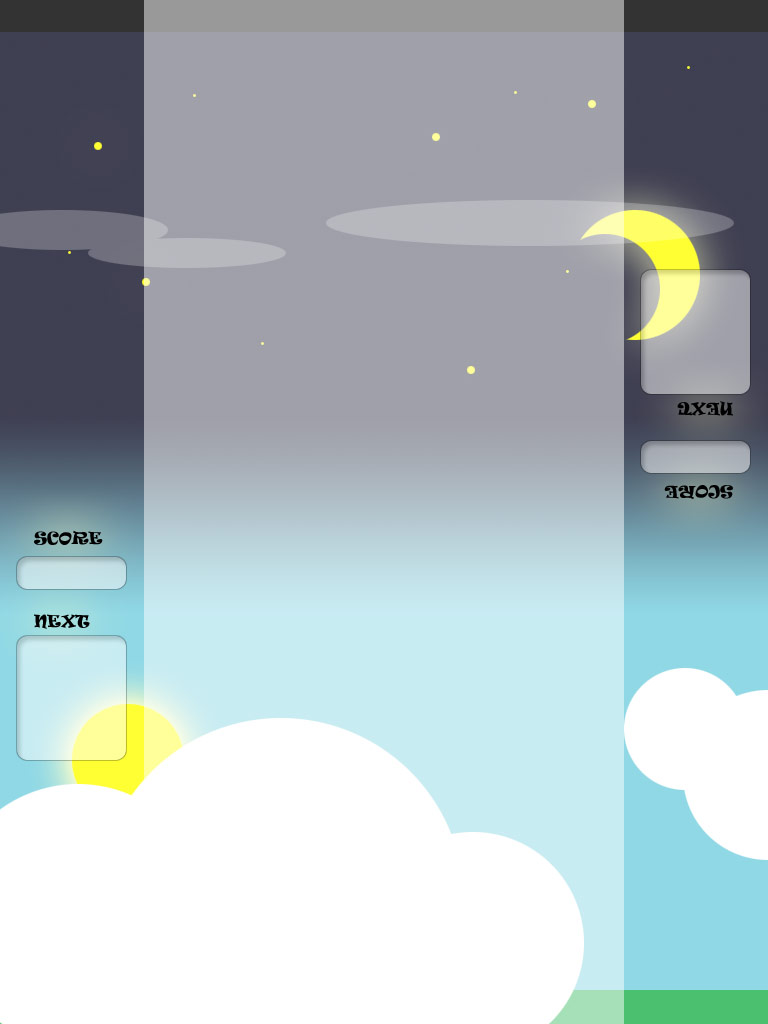
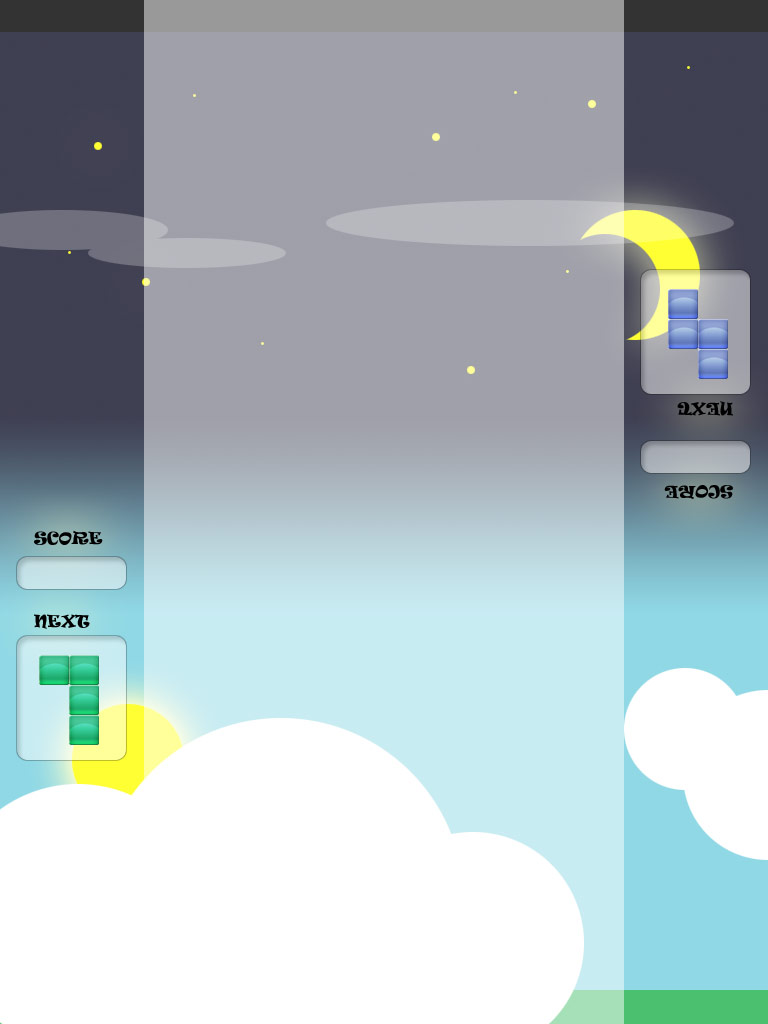
final tweaks in layout and powerups

Changed region(s): [[0.0312, 0.625, 0.1562, 0.75], [0.8438, 0.2812, 0.9688, 0.375]]

diff --git a/js/touchtris.js b/js/touchtris.js
@@ -26,6 +26,9 @@ TouchTris = new Class({
 		this.addGame(player1);
 		this.addGame(player2);
 
+		player1.addEvent('powerup', this.doPowerup.bind(this));
+		player2.addEvent('powerup', this.doPowerup.bind(this));
+
 		var canvas = document.getElementById("game");
 
 		var renderer = this.renderer = new Renderer({
@@ -90,13 +93,35 @@ TouchTris = new Class({
 		this.renderer.render(game);
 	},
 
+	doPowerup: function(event) {
+		var origin = event.game;
+		var total = 34;
+		var data1 = this.player1.getData();
+		var data2 = this.player2.getData();
+
+		try {
+			
+			if(origin == this.player1) {
+				var h = data1.getHeight() -1;
+				data1.setHeight(h);
+				data2.setHeight(34 - h);
+			} else {
+				var h = data2.getHeight() -1;
+				data2.setHeight(h);
+				data1.setHeight(34 - h);
+			}
+		
+		} catch (e) {
+		}
+	},
+
 	addGame: function(game) {
 		this.games.push(game);
 	},
 
 	start: function() {
 		this.stop();
-		this.timer = setInterval(this.tick.bind(this), 500);
+		this.timer = setInterval(this.tick.bind(this), 750);
 	},
 
 	stop: function() {

diff --git a/js/gamedata.js b/js/gamedata.js
@@ -148,10 +148,10 @@ var GameData= new Class({
 	// remove the a line in the grid, add a new line on top.
 	removeLine: function(lineNumber) {
 		var ln = lineNumber || 0;
-		var removedLine = this.grid.splice(ln,1);
-		for(i=0;i<removedLine.length; i++) {
+		var removedLine = this.grid.splice(ln,1)[0];
+		for(var i=0; i<removedLine.length; i++) {
 			if(removedLine[i] > 5) { // fire special powerup event.
-				this.fireEvent('powerup', this.removedLine[i]);
+				this.fireEvent('powerup', removedLine[i]);
 			}
 		}
 		this.grid.push(this.getNewRow());

diff --git a/js/game.js b/js/game.js
@@ -70,7 +70,7 @@ Game = new Class({
 	},
 
 	doPowerup:function(e) {
-		console.log(e);
+		this.fireEvent('powerup', {game: this});
 	},
 	
 	getNewShape: function() {
